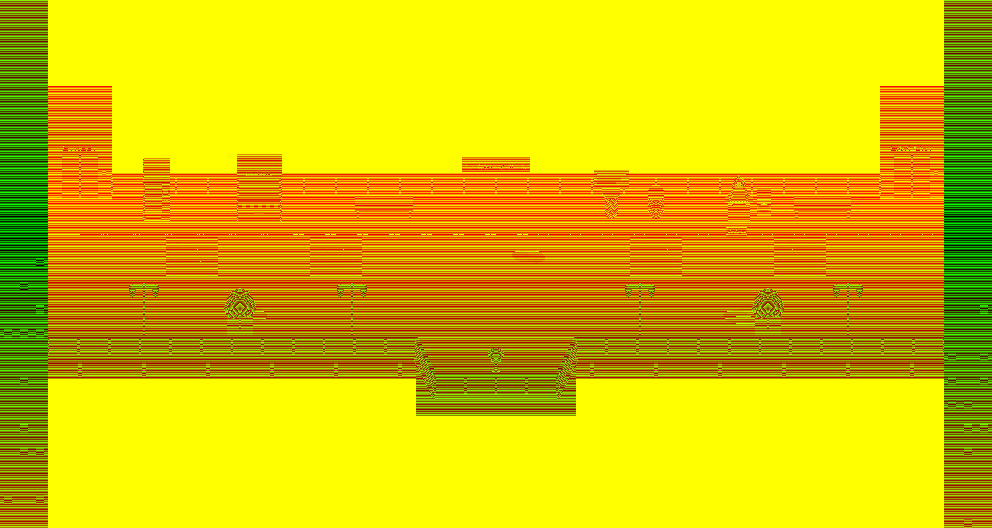
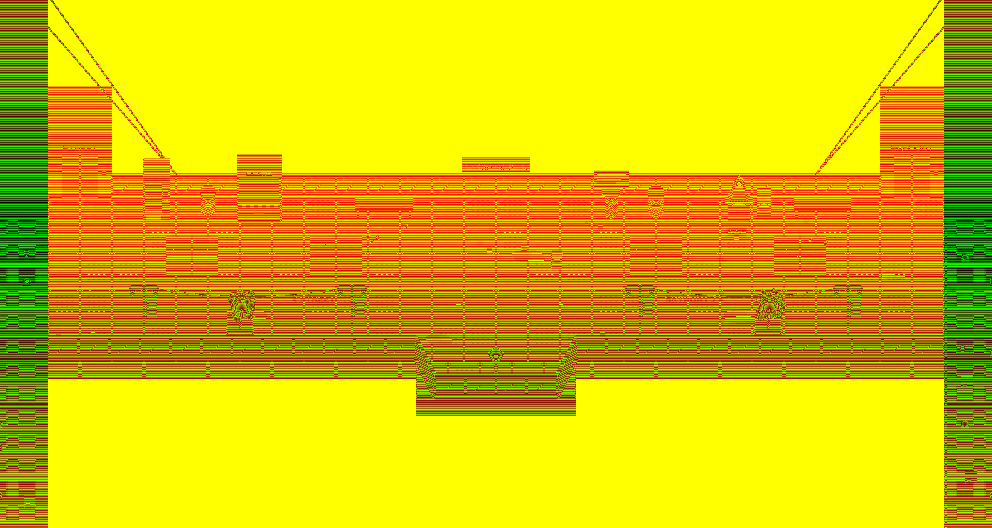
Arcadia: rebuild the Skywalk to Look Book 2
Steel deck plates with rivets and treads, anti-slip nosing along both edges,
wet after the rain (the street's mirror passes: the neon and the SKYWALK sign
show again in the deck); glass floor panels with mullions and the traffic
streaking far below; glints across the balustrade glass and a sheen along it;
the towers' faces close up (floor slabs, framed windows, AC units, a neon edge)
and the bridge's stays; stencilled '< STREET' and 'SKYPORT 7 >' on the deck,
string lights and lit banners on the lamps, planters with real crowns, a WET
FLOOR sign, coffee cups, pigeons, a recycler. Every interaction, seat and
walker stays where it was.

Claude-Session: https://claude.ai/code/session_016FbSGDt5mzHjFPNtpgcFwC

diff --git a/tools/bridge-art/scenes/arcadia_skywalk.py b/tools/bridge-art/scenes/arcadia_skywalk.py
@@ -20,6 +20,8 @@ from scenekit import Kit, apply_world, shade  # noqa: E402
 import assets_cyber as Y               # noqa: E402
 import assets_district as D            # noqa: E402
 import assets_signs as S               # noqa: E402
+import assets_arcadia_rich as AR       # noqa: E402
+import random                          # noqa: E402
 
 OUT = sys.argv[1]
 ROOT = os.path.abspath(os.path.join(os.path.dirname(__file__), '..', '..', '..'))
@@ -32,23 +34,33 @@ X0, X1, R0, R1 = 1.0, 29.0, 4.0, 9.3            # the deck
 BX0, BX1, BR1 = 12.5, 17.5, 10.5                 # the viewing bay, out over the drop
 
 # ---- the deck: dark tiles, an LED line down the middle, glass panels over the drop ----------------------------------
-Y.tile_floor(k, X0, R0, X1, R1, tones=('#2e2a3a', '#2a2636'), size=1.0, seam='#14101c')
-Y.tile_floor(k, BX0, R1, BX1, BR1, tones=('#2e2a3a', '#2a2636'), size=1.0, seam='#14101c')
-k.box(X0, R0, -0.7, X1, R1, -0.04, ('#1a1626', 0.08), 'deck_truss')
-k.box(BX0, R1, -0.7, BX1, BR1, -0.04, ('#1a1626', 0.08), 'deck_truss')
+gr = random.Random(3070)                                    # the deck's own dice
+k.wet = dict(AR.WET, deck=0.4)
+PLATES = ('#3a3648', '#343044', '#3e3a4c', '#322e40')
+AR.deck_plates(k, X0, R0, X1, R1, rng=gr, tones=PLATES)
+AR.deck_plates(k, BX0, R1, BX1, BR1, rng=gr, tones=PLATES)
+k.box(X0, R0, -0.7, X1, R1, -0.1, ('#1a1626', 0.08), 'deck_truss')
+k.box(BX0, R1, -0.7, BX1, BR1, -0.1, ('#1a1626', 0.08), 'deck_truss')
 for x in range(int(X0) + 1, int(X1), 2):                                        # the truss's ribs under the edge
     k.box(x - 0.06, R1 - 0.02, -0.7, x + 0.06, R1 + 0.02, -0.05, '#2a2638', 'truss_rib')
 k.box(X0, R1 + 0.0, -0.72, X1, R1 + 0.03, -0.66, shade(Y.PINK, 0.4), 'truss_led', emit=(Y.PINK, 0.8))
 k.box(X0, 6.86, 0.0, X1, 6.94, 0.006, shade(Y.CYAN, 0.4), 'deck_led', emit=(Y.CYAN, 0.6))
 for x in (5.5, 10.0, 20.0, 24.5):                                               # glass floor: the city far below
-    k.box(x - 0.8, 5.4, 0.0, x + 0.8, 6.6, 0.008, '#06061a', 'glass_floor', emit=('#141850', 0.5))
-    k.box(x - 0.82, 5.38, 0.0, x + 0.82, 6.62, 0.004, '#3a3a52', 'glass_frame')
-    for i in range(14):
-        gx, gr = x - 0.7 + k.rng.random() * 1.4, 5.5 + k.rng.random() * 1.0
-        c = k.rng.choice((Y.YEL, Y.PINK, Y.CYAN_L, '#ffd890'))
-        k.box(gx, gr, 0.008, gx + 0.04, gr + 0.02, 0.01, shade(c, 0.4), 'glass_city', emit=(c, 0.7))
-for (x, r, rx, ry, c) in ((7.2, 7.8, 0.6, 0.22, Y.PINK), (16.0, 6.0, 0.5, 0.2, Y.CYAN), (22.8, 7.9, 0.7, 0.24, Y.PURP)):
-    Y.puddle(k, x, r, rx, ry, tint=c)
+    k.box(x - 0.82, 5.38, -0.02, x + 0.82, 6.62, 0.012, '#3a3a52', 'glass_frame')
+    k.box(x - 0.8, 5.4, 0.0, x + 0.8, 6.6, 0.014, '#06061a', 'glass_floor', emit=('#141850', 0.5))
+    k.boxes([(x - 0.02, 5.4, 0.014, x + 0.02, 6.6, 0.02), (x - 0.8, 5.98, 0.014, x + 0.8, 6.02, 0.02)], '#3a3a52', 'glass_frame')
+    for i in range(16):
+        gx, gr_ = x - 0.72 + gr.random() * 1.44, 5.48 + gr.random() * 1.04
+        c = gr.choice((Y.YEL, Y.PINK, Y.CYAN_L, '#ffd890'))
+        k.box(gx, gr_, 0.014, gx + 0.04, gr_ + 0.02, 0.016, shade(c, 0.4), 'glass_city', emit=(c, 0.7))
+    for j in range(2):                                                          # a traffic lane streaking under it
+        rr = 5.6 + gr.random() * 0.8
+        k.box(x - 0.78, rr, 0.014, x + 0.78, rr + 0.012, 0.016, shade('#ff5050', 0.4), 'glass_city', emit=(('#ff5050', '#fff0d0')[j], 0.6))
+AR.puddles(k, ((7.2, 7.8, 0.6, 0.22, Y.PINK), (16.0, 6.0, 0.5, 0.2, Y.CYAN), (22.8, 7.9, 0.7, 0.24, Y.PURP),
+               (13.2, 8.6, 0.4, 0.16, Y.CYAN_L), (27.4, 6.6, 0.35, 0.14, Y.PINK)), z=0.0)
+for x in range(int(X0), int(X1)):                                               # anti-slip nosing along both edges
+    for rr in (R0 + 0.32, R1 - 0.32):
+        k.box(x + 0.1, rr - 0.04, 0.0, x + 0.9, rr + 0.04, 0.006, ('#8a7a34', 0.06), 'deck_tread')
 
 # ---- the balustrades: low glass between posts, a lit rail, the city beyond ---------------------------------------------
 def balustrade(xa, ra, xb, rb):
@@ -57,6 +69,12 @@ def balustrade(xa, ra, xb, rb):
     k.bar(xa, ra, xb, rb, 0.18, 0.92, 0.04, '#0e1030', 'balustrade_glass', emit=('#2a3a7a', 0.35))
     k.bar(xa, ra, xb, rb, 0.92, 0.98, 0.1, '#3a3a52', 'rail')
     k.bar(xa, ra, xb, rb, 0.88, 0.92, 0.06, shade(Y.CYAN, 0.4), 'rail_led', emit=(Y.CYAN, 0.7))
+    k.bar(xa, ra + 0.025, xb, rb + 0.025, 0.78, 0.8, 0.02, '#3a4a8a', 'balustrade_sheen', emit=('#6a7ad0', 0.35))
+    for i in range(n):                                                          # a glint across each pane
+        t = (i + 0.3) / n
+        gx, gr_ = xa + (xb - xa) * t, ra + (rb - ra) * t
+        k.tube((gx, gr_ + 0.03, 0.3), (gx + 0.25 * (xb - xa) / max(1e-6, math.hypot(xb - xa, rb - ra)), gr_ + 0.03, 0.62), 0.008,
+               '#4a5aa0', 'balustrade_glint', emit=('#8090e0', 0.4), verts=3)
     for i in range(n + 1):
         t = i / n
         x, r = xa + (xb - xa) * t, ra + (rb - ra) * t
@@ -75,15 +93,12 @@ k.solid(BX1, R1 - 0.2, X1, R1 + 0.1)
 k.solid(BX0, BR1 - 0.25, BX1, BR1 + 0.1)
 
 # ---- the two towers the bridge hangs between --------------------------------------------------------------------------
-for (a, b) in ((-3.0, X0), (X1, COLS + 3.0)):
-    k.box(a, -2.0, -8.0, b, 11.5, 9.0, ('#16122a', 0.08), 'tower')
-    rects = []
-    for i in range(int((b - a) / 0.5)):
-        for j in range(16):
-            if k.rng.random() < 0.4:
-                x = a + 0.12 + i * 0.5
-                rects.append((x, 11.5, 8.4 - j * 1.05, x + 0.26, 11.52, 8.75 - j * 1.05))
-    k.boxes(rects, shade('#ffd890', 0.5), 'tower_window', emit=('#ffd890', 0.7))
+for (a, b, neon) in ((-3.0, X0, Y.CYAN), (X1, COLS + 3.0, Y.PINK)):
+    k.box(a, -2.0, -8.0, b, 10.5, 9.0, ('#16122a', 0.08), 'tower')
+    AR.tower_face(k, a, b, 11.5, -4.2, 9.0, rng=gr, neon=neon)
+    for z in (1.0, 2.4):                                                            # the bridge's stays, from the towers to the deck
+        k.tube((b if a < 0 else a, R0 + 0.15, 6.5 + z), ((X0 + 4.0) if a < 0 else (X1 - 4.0), R0 + 0.15, 1.0), 0.03, '#4a4a5a',
+               'stay', verts=5)
 k.solid(0, 0, X0, ROWS)
 k.solid(X1, 0, COLS, ROWS)
 
@@ -153,7 +168,27 @@ Y.metal_bench(k, 24.3, 26.1, 4.65, neon=Y.CYAN)
 for x in (4.0, 10.5, 19.5, 26.0):
     Y.street_lamp(k, x, 8.75, col=Y.CYAN if x < 15 else Y.PINK)
 for x in (7.0, 23.5):
-    Y.street_planter(k, x, 8.55, glow=Y.YEL)
+    AR.planter(k, x, 8.55, glow=Y.YEL)
+AR.wet_sign(k, 16.9, 6.3)
+import assets_dock as DK                                                        # the way, stencilled on the deck
+DK.floor_text(k, '< STREET', 'RussoOne', 9.3, 7.45, 0.34, ('#b8a040', 0.1))
+DK.floor_text(k, 'SKYPORT 7 >', 'RussoOne', 21.2, 7.45, 0.34, ('#b8a040', 0.1))
+lamps = (4.0, 10.5, 19.5, 26.0)
+for a, b in zip(lamps, lamps[1:]):                                              # string lights from lamp to lamp
+    if b - a < 8:
+        D.cable(k, (a + 0.4, 8.75, 2.45), (b - 0.4, 8.75, 2.45), sag=0.35, lights=(Y.PINK, Y.CYAN, '#ffe090'), n=12)
+for i, x in enumerate(lamps):                                                   # a lit banner hung on each lamp
+    col = (Y.PINK, Y.CYAN, Y.PURP, Y.YEL)[i]
+    k.box(x + 0.06, 8.7, 1.25, x + 0.1, 8.8, 2.0, '#2a2832', 'banner_arm')
+    k.box(x + 0.1, 8.72, 1.2, x + 0.42, 8.76, 2.0, shade(col, 0.35), 'banner', emit=(col, 0.6))
+    for j in range(3):
+        k.box(x + 0.16, 8.76, 1.35 + j * 0.22, x + 0.36, 8.77, 1.45 + j * 0.22, '#140a18', 'banner_glyph')
+AR.coffee_cup(k, 12.2, 5.1)
+AR.coffee_cup(k, 26.2, 8.6, tipped=True)
+AR.pigeons(k, 11.3, 5.55, n=3, rng=gr)
+AR.pigeons(k, 25.2, 5.6, n=2, rng=gr)
+AR.flyers(k, X0 + 0.3, R0 + 0.5, X1 - 0.3, R1 - 0.4, 18, rng=gr)
+AR.recycler(k, 6.0, 4.55)
 VX, VR = 15.0, 9.85
 k.cyl(VX, VR, 0.0, 0.08, 0.22, '#2a2a3e', 'viewer_base', verts=12)
 k.cyl(VX, VR, 0.08, 1.0, 0.06, '#3a3a52', 'viewer_post', verts=8)
@@ -169,7 +204,7 @@ k.area_light(15.0, 3.0, 9.0, '#7058b8', 650, 30.0, rot=(math.radians(-35), 0, 0)
 k.area_light(15.0, 12.0, -3.0, '#ff70b0', 220, 26.0, rot=(math.radians(150), 0, 0))
 for (x, c) in ((8.0, '#80c0ff'), (22.0, '#ff90c8')):
     k.point_light(x, 7.0, 3.0, c, 22, radius=1.0)
-k.render(OUT, light_states={'full': {'flicker': 1.0}, 'dim': {'flicker': 0.7}}, light_samples=128, world_light=('#241a40', 0.5))
+k.render(OUT, light_states={'full': {'flicker': 1.0}, 'dim': {'flicker': 0.7}}, light_samples=int(os.environ.get('ARC_SAMPLES', 128)), world_light=('#241a40', 0.5))
 
 w = {'name': 'The Skywalk', 'width': COLS, 'height': ROWS, 'tileSize': 16, 'tileset': 'arcadia',
      'spawns': {'player': [2, 5]}, 'shipExit': False, 'tiles': [], 'collisions': [], 'tileNames': {},

diff --git a/_claude_docs/requests.md b/_claude_docs/requests.md
@@ -18,7 +18,7 @@ a new place*).
 | The normal faces (not the round ones) on the people | **done** | Painted faces on every sheet (`characters.py` projects the face's points, `sprites_post.py` paints them: eyes with a catch-light, brows, a smile, blush; idle3 a blink, and everyone blinks now and then). All 131 NPCs, the crowd's bodies, every pilot sheet (walking, seated, skiing, climbing, fighting) and the weapons in hand. |
 | A face in the talk portrait, Stardew-style (not the top of a hat) | **done** | `tools/bridge-art/portraits.py`: 64 × 64 face-on portraits for every NPC, crowd body and pilot head, five expressions (neutral, happy, surprised, sad, blink) that follow the conversation; ×2 on a desktop, ×1 on a phone; the same faces, halved, in the ledger and on the staff board. |
 | **Backlog** — re-render the outdoor places with live light and the toy finish | in progress (nine sessions, Oct 17) | Done: the Market Square. To do — Lumar: Diggen's Point (`lumar_harbor`), Crownhaven, Tern Holm, Starling Holm, Rose Cove, Sapphire Port, Crimson Reach. Verdance: the farm, Brambleford. Hoarfell: Fellhaven, the pistes, the Park, the face, the summit, the Last Ridge, the Ice Step. Sylvara: Elderglade. (Midnight Isle and Arcadia never see the sun: the toy finish only.) |
-| **Backlog** — re-render the interiors and night places in the toy finish | open | Done: the bakery, Arcadia's District street and the Backs (rebuilt, wet after the rain). To do: every other scene in `tools/bridge-art/scenes/` (taverns, shops, homes, the ship, the stations, the casino, Arcadia's Skywalk and Skyport 7, Midnight Isle, the mines and caves). |
+| **Backlog** — re-render the interiors and night places in the toy finish | open | Done: the bakery, Arcadia's District street, the Backs and the Skywalk (rebuilt, wet after the rain). To do: every other scene in `tools/bridge-art/scenes/` (taverns, shops, homes, the ship, the stations, the casino, Arcadia's Skyport 7, Midnight Isle, the mines and caves). |
 | **Backlog** — rebuild the places as richer dioramas, world by world | in progress (exteriors: nine sessions, one per area, `_claude_docs/prompt-bridge-rebuild.md`) | Shaped land, layered vegetation, the house kit, small life (the reference dioramas' standard; `tools/bridge-art/dioramas/ref/`). Interiors later. Start with the farm and Brambleford (Millpond Farm shows the way), then Lumar's towns, Elderglade, Fellhaven. |
 | **Backlog** — faces on every sheet, pilots included | **done** | Every NPC, crowd, pilot and event sheet. (Faces under a brim, curls or a beard show partly or not at all, as before.) |
 | **Backlog** — the sea under live light: reflections of islands, ships and the sky | open | js/sea.js draws the sea over the relit seabed; Look Book's mirrored reflections for the open water and harbours. |
